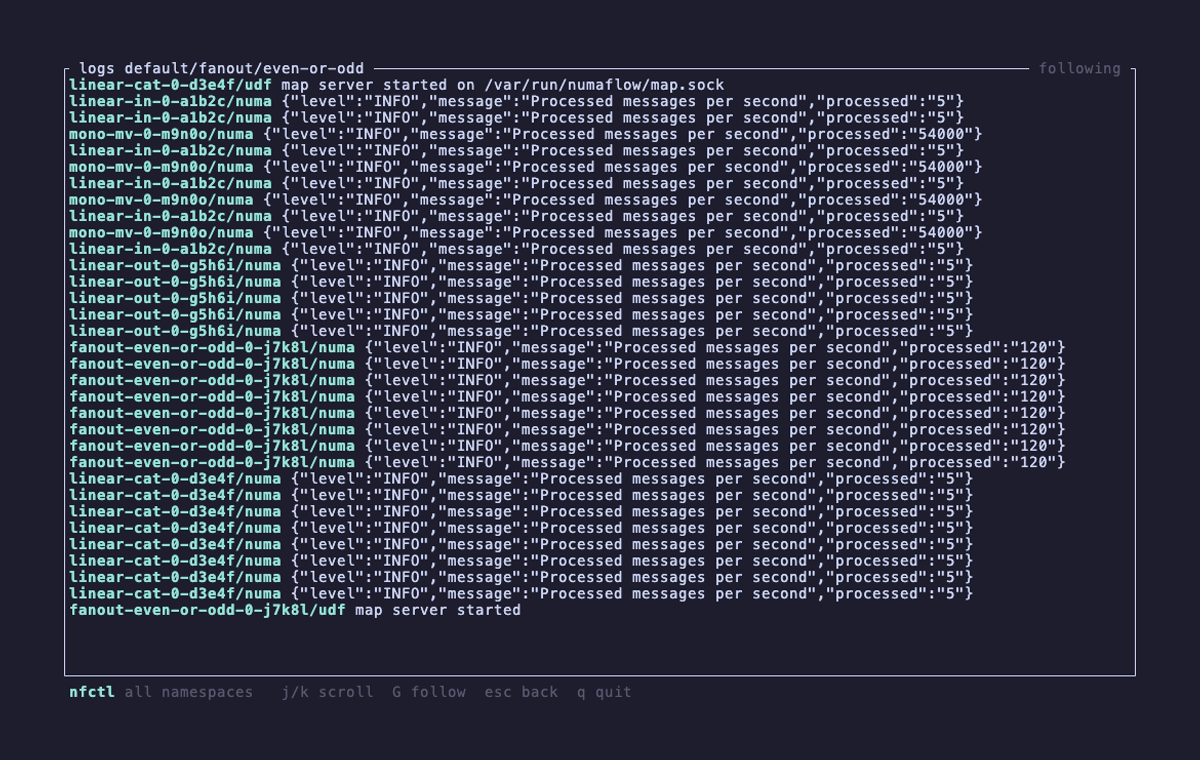
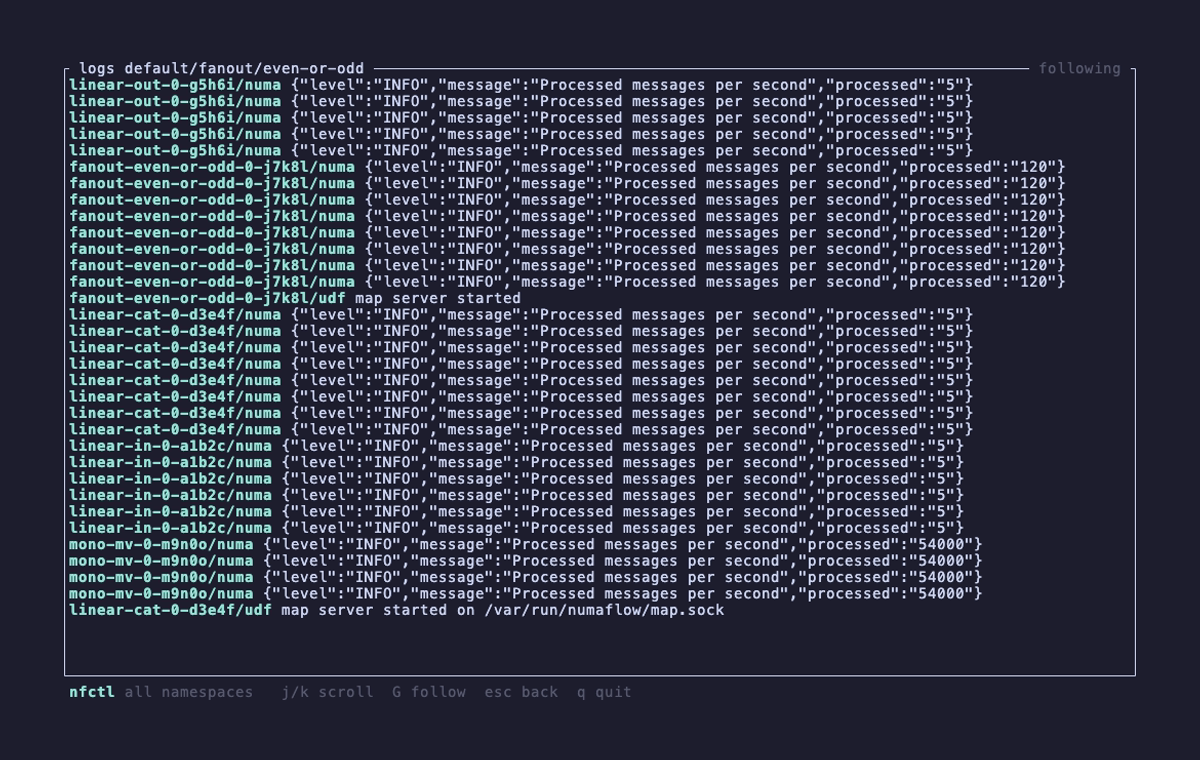
feat(graph): long edges keep their row
A pass slot takes the row its edge already travels on when that row is
free in the column, else the row it enters its target on, else the free
row nearest the source. Long edges run straight instead of being parked
above or below the cards they cross and bending twice to get there.

Changed region(s): [[0.0308, 0.0908, 0.8942, 0.8171]]

diff --git a/crates/nfctl-graph/src/layout/route.rs b/crates/nfctl-graph/src/layout/route.rs
@@ -39,18 +39,20 @@ struct Geometry {
     cards_h: i32,
 }
 
-fn geometry(l: &Layered, opts: LayoutOptions) -> Geometry {
-    let slot_h = |n: &LNode| match n {
-        LNode::Real(_) => i32::from(opts.card_h),
-        LNode::Pass(_) => 1,
-    };
-    // One blank row between stacked slots. With odd card heights this keeps
-    // every column an odd height, so centring lands on a row and a source
-    // sits exactly between the two targets it fans out to.
+fn geometry(g: &ViewGraph, l: &Layered, opts: LayoutOptions) -> Geometry {
+    let card_h = i32::from(opts.card_h);
+    // Cards only: pass slots are placed afterwards, on a row the edge already
+    // travels on wherever that row is free. One blank row between stacked
+    // cards keeps every column an odd height, so centring lands on a row and
+    // a source sits exactly between the two targets it fans out to.
+    let cards_in = |col: &Vec<LNode>| col.iter().filter(|n| matches!(n, LNode::Real(_))).count();
     let heights: Vec<i32> = l
         .columns
         .iter()
-        .map(|col| col.iter().map(slot_h).sum::<i32>() + i(col.len().saturating_sub(1)))
+        .map(|col| {
+            let n = cards_in(col);
+            i(n) * card_h + i(n.saturating_sub(1)) * SLOT_GAP
+        })
         .collect();
     let tallest = heights.iter().copied().max().unwrap_or(0);
     let mut geo = Geometry {
@@ -60,42 +62,94 @@ fn geometry(l: &Layered, opts: LayoutOptions) -> Geometry {
         cards_h: tallest,
     };
     for (c, col) in l.columns.iter().enumerate() {
-        // Shorter columns sit centred on the tallest one, so a chain that fans
-        // out and back in reads as one horizontal line through the middle.
         let mut y = (tallest - heights[c]) / 2;
         let mut slots = Vec::new();
-        for (k, &n) in col.iter().enumerate() {
-            if k > 0 {
+        let mut placed = 0;
+        for &n in col {
+            let LNode::Real(id) = n else {
+                slots.push(match n {
+                    LNode::Pass(e) => Slot::Pass(e),
+                    LNode::Real(id) => Slot::Card(id),
+                });
+                continue;
+            };
+            if placed > 0 {
                 y += SLOT_GAP;
             }
-            match n {
-                LNode::Real(id) => {
-                    // Every card is the same (odd) height so edges meet a true
-                    // middle row and siblings line up; the badge row is blank
-                    // when nothing tagged arrives.
-                    let h = opts.card_h;
-                    // Edges meet the card on its middle row.
-                    geo.attach.insert(n, (c, y + i32::from(h) / 2));
-                    geo.cards.push(CardPos {
-                        node: id,
-                        col: c,
-                        x: 0,
-                        y,
-                        h,
-                    });
-                    slots.push(Slot::Card(id));
-                    y += i32::from(h);
-                }
-                LNode::Pass(e) => {
-                    geo.attach.insert(n, (c, y));
-                    slots.push(Slot::Pass(e));
-                    y += 1;
-                }
-            }
+            placed += 1;
+            geo.attach.insert(n, (c, y + card_h / 2));
+            geo.cards.push(CardPos {
+                node: id,
+                col: c,
+                x: 0,
+                y,
+                h: opts.card_h,
+            });
+            slots.push(Slot::Card(id));
+            y += card_h;
         }
         geo.columns.push(slots);
     }
+    pass_rows(g, l, &mut geo, card_h);
     geo
+}
+
+/// Give every pass slot a row. First choice: the row the edge leaves its
+/// source on, so a long edge runs straight; then the row it enters its
+/// target on; then the free row nearest the source row. A row is free in a
+/// column when no card there covers it or the row beside it, and no other
+/// pass in that column has it.
+fn pass_rows(g: &ViewGraph, l: &Layered, geo: &mut Geometry, card_h: i32) {
+    let blocked = |geo: &Geometry, c: usize, row: i32| {
+        geo.cards
+            .iter()
+            .filter(|k| k.col == c)
+            .any(|k| row >= k.y - 1 && row <= k.y + card_h)
+            || geo
+                .attach
+                .iter()
+                .any(|(n, &(pc, py))| matches!(n, LNode::Pass(_)) && pc == c && py == row)
+    };
+    let mut passes: Vec<(usize, EdgeId)> = l
+        .columns
+        .iter()
+        .enumerate()
+        .flat_map(|(c, col)| {
+            col.iter().filter_map(move |n| match n {
+                LNode::Pass(e) => Some((c, *e)),
+                LNode::Real(_) => None,
+            })
+        })
+        .collect();
+    // Longer edges first: they have the least freedom.
+    passes.sort_by_key(|&(c, e)| {
+        let edge = &g.edges[e.0 as usize];
+        let (sc, _) = geo.attach[&LNode::Real(edge.from)];
+        let (tc, _) = geo.attach[&LNode::Real(edge.to)];
+        (std::cmp::Reverse(tc - sc), c, e)
+    });
+    for (c, e) in passes {
+        let edge = &g.edges[e.0 as usize];
+        let (_, src_row) = geo.attach[&LNode::Real(edge.from)];
+        let (_, dst_row) = geo.attach[&LNode::Real(edge.to)];
+        let mut row = None;
+        for candidate in [src_row, dst_row] {
+            if !blocked(geo, c, candidate) {
+                row = Some(candidate);
+                break;
+            }
+        }
+        let row = row.unwrap_or_else(|| {
+            // Every row past the tallest column is free, so the search ends.
+            let limit = geo.cards_h + 2;
+            (1..=limit + src_row)
+                .flat_map(|d| [src_row - d, src_row + d])
+                .find(|&r| r >= 0 && !blocked(geo, c, r))
+                .unwrap_or(src_row)
+        });
+        geo.attach.insert(LNode::Pass(e), (c, row));
+        geo.cards_h = geo.cards_h.max(row + 1);
+    }
 }
 
 /// One lane row per back-edge source; shortest hops nearest the cards.
@@ -351,7 +405,7 @@ pub(crate) fn build(
 ) -> Layout {
     let cols = layered.columns.len();
     let card_w = i32::from(opts.card_w);
-    let geo = geometry(layered, opts);
+    let geo = geometry(g, layered, opts);
     let lane = lanes(g, ranked, geo.cards_h);
     let sp = spans(g, ranked, layered, &geo, &lane);
     let margin = if g

diff --git a/docs/rendering.md b/docs/rendering.md
@@ -115,6 +115,16 @@ track by rule 1, and the junction is `L U D`:
    └─▶ audit          coloured
 ```
 
+## Long edges
+
+An edge that skips columns crosses each of them on a pass row. The row is
+chosen after the cards are placed: the row the edge leaves its source on if
+no card in that column covers it (or the row beside it), else the row it
+enters its target on, else the free row nearest the source row. A long edge
+therefore runs straight wherever it can and bends only where a card is in
+the way, and an edge from a lower source under a card runs beneath the card
+rather than around it.
+
 ## What this cannot draw
 
 A cell has one colour. A bus carrying several tag combinations shows the
